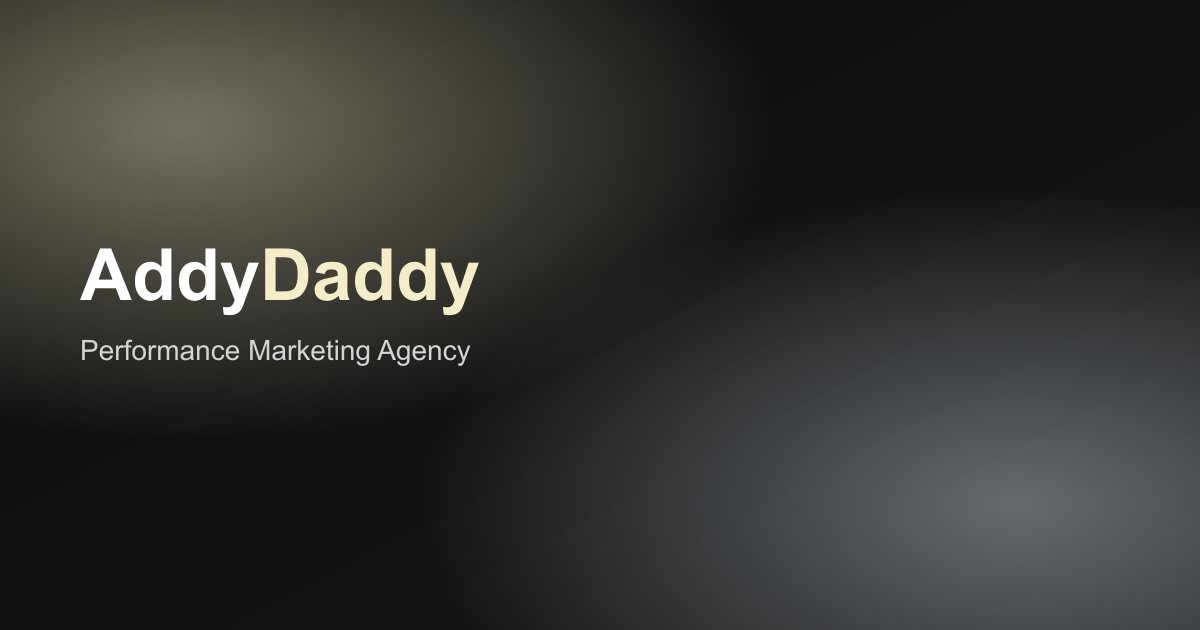
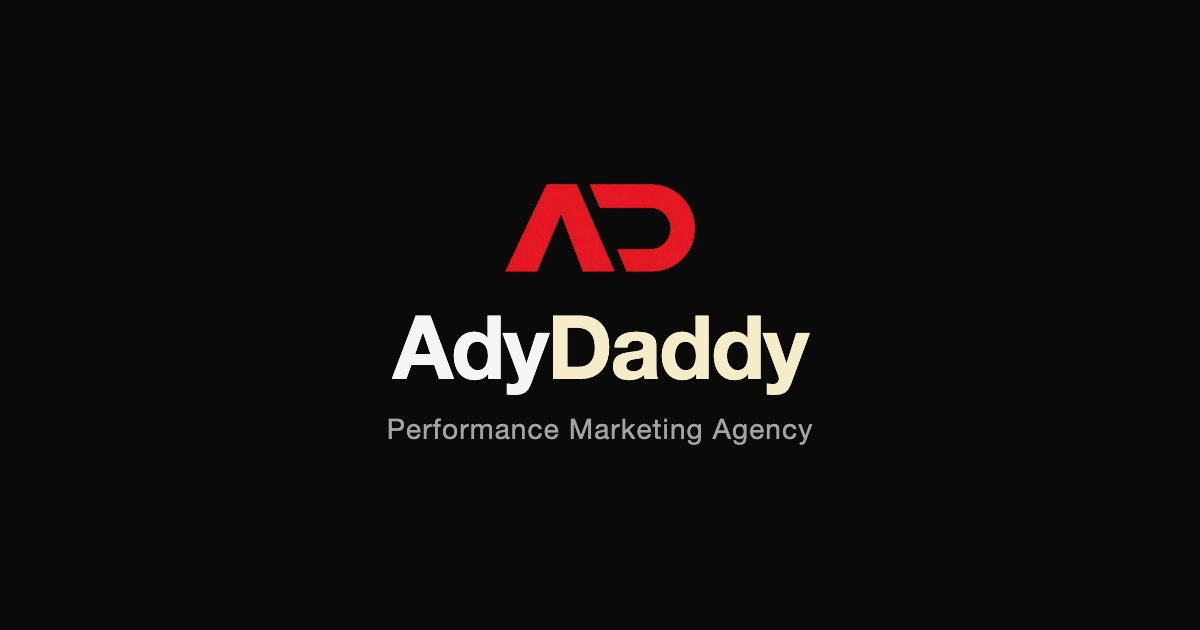
Complete site: business details, contact form -> Google Sheets, process section, OG image
- Fill BUSINESS_INFO: founder Vibhor Sharma, phone, email, Instagram, domain adydaddy.com
- Make address optional (hidden in UI/schema until registered)
- Wire contact form to /api/contact -> Google Sheets web hook (Apps Script included)
- Add 'How we work' process section + two FAQ entries
- Generate on-brand OG image
- Update README setup docs

diff --git a/src/components/ContactForm.tsx b/src/components/ContactForm.tsx
@@ -3,18 +3,40 @@
 import { useState, type FormEvent } from "react";
 import Link from "next/link";
 
+type Status = "idle" | "loading" | "submitted" | "error";
+
 /**
- * Placeholder client-side form. Wire `handleSubmit` up to a real API route,
- * email service, or CRM webhook before launch; this only manages local UI
- * state.
+ * Client-side contact form. Submits to /api/contact, which forwards the
+ * payload to a Google Sheet web hook. Nothing is sent anywhere from the
+ * client other than this site's own API route.
  */
 export default function ContactForm() {
-  const [status, setStatus] = useState<"idle" | "submitted">("idle");
+  const [status, setStatus] = useState<Status>("idle");
+  const [error, setError] = useState("");
 
-  function handleSubmit(event: FormEvent<HTMLFormElement>) {
+  async function handleSubmit(event: FormEvent<HTMLFormElement>) {
     event.preventDefault();
-    // TODO: POST to a real API route / CRM webhook.
-    setStatus("submitted");
+    setStatus("loading");
+    setError("");
+
+    const form = event.currentTarget;
+    const data = Object.fromEntries(new FormData(form).entries());
+
+    try {
+      const response = await fetch("/api/contact", {
+        method: "POST",
+        headers: { "Content-Type": "application/json" },
+        body: JSON.stringify(data),
+      });
+      const result = (await response.json()) as { error?: string };
+      if (!response.ok) {
+        throw new Error(result.error || "Something went wrong.");
+      }
+      setStatus("submitted");
+    } catch (err) {
+      setError(err instanceof Error ? err.message : "Something went wrong.");
+      setStatus("error");
+    }
   }
 
   if (status === "submitted") {
@@ -23,7 +45,11 @@ export default function ContactForm() {
         <h2 className="text-[18px]">Thanks! We&apos;ll be in touch.</h2>
         <p className="mt-2 text-body">
           We usually reply within one business day. In the meantime, feel
-          free to browse our <Link href="/portfolio" className="font-bold text-heading underline underline-offset-2">recent work</Link>.
+          free to browse our{" "}
+          <Link href="/portfolio" className="font-bold text-heading underline underline-offset-2">
+            recent work
+          </Link>
+          .
         </p>
       </div>
     );
@@ -51,11 +77,19 @@ export default function ContactForm() {
           className="mt-2 w-full rounded-xl border border-heading/15 bg-transparent px-4 py-3 text-body outline-none transition-colors duration-300 focus:border-heading"
         />
       </div>
+
+      {status === "error" && (
+        <p className="rounded-xl bg-pastel-blush/50 px-4 py-3 text-[14px] text-heading">
+          {error}
+        </p>
+      )}
+
       <button
         type="submit"
-        className="mt-2 inline-flex items-center justify-center self-start rounded-full bg-heading px-6 py-3 text-[14px] font-bold text-background transition-transform duration-300 hover:scale-[1.03]"
+        disabled={status === "loading"}
+        className="mt-2 inline-flex items-center justify-center self-start rounded-full bg-heading px-6 py-3 text-[14px] font-bold text-background transition-transform duration-300 hover:scale-[1.03] disabled:cursor-not-allowed disabled:opacity-60"
       >
-        Send message
+        {status === "loading" ? "Sending…" : "Send message"}
       </button>
     </form>
   );

diff --git a/src/app/api/contact/route.ts b/src/app/api/contact/route.ts
@@ -1,0 +1,83 @@
+import { NextResponse } from "next/server";
+
+type ContactPayload = {
+  name?: string;
+  company?: string;
+  email?: string;
+  budget?: string;
+  message?: string;
+};
+
+/**
+ * Contact form endpoint. Validates the payload, then forwards it to a
+ * Google Sheets Apps Script web hook (see scripts/google-sheet-webhook.gs).
+ * The web hook URL is read at request time from GOOGLE_SHEET_WEBHOOK_URL so
+ * the build never depends on it being present.
+ */
+export async function POST(request: Request) {
+  let body: ContactPayload;
+  try {
+    body = (await request.json()) as ContactPayload;
+  } catch {
+    return NextResponse.json({ error: "Invalid request body." }, { status: 400 });
+  }
+
+  const name = (body.name ?? "").trim();
+  const email = (body.email ?? "").trim();
+  const message = (body.message ?? "").trim();
+  const company = (body.company ?? "").trim();
+  const budget = (body.budget ?? "").trim();
+
+  if (!name || !email || !message) {
+    return NextResponse.json(
+      { error: "Please fill in your name, email, and message." },
+      { status: 400 }
+    );
+  }
+
+  if (!/^[^\s@]+@[^\s@]+\.[^\s@]+$/.test(email)) {
+    return NextResponse.json(
+      { error: "Please enter a valid email address." },
+      { status: 400 }
+    );
+  }
+
+  const webhookUrl = process.env.GOOGLE_SHEET_WEBHOOK_URL;
+
+  if (!webhookUrl) {
+    console.error(
+      "Contact submission received but GOOGLE_SHEET_WEBHOOK_URL is not set."
+    );
+    return NextResponse.json(
+      { error: "This form isn't fully set up yet. Please email us directly." },
+      { status: 503 }
+    );
+  }
+
+  try {
+    const res = await fetch(webhookUrl, {
+      method: "POST",
+      headers: { "Content-Type": "application/json" },
+      body: JSON.stringify({
+        name,
+        company,
+        email,
+        budget,
+        message,
+        submittedAt: new Date().toISOString(),
+      }),
+    });
+
+    if (!res.ok) {
+      throw new Error(`Sheet webhook responded ${res.status}`);
+    }
+
+    return NextResponse.json({ ok: true });
+  } catch (error) {
+    console.error("Failed to forward contact form submission:", error);
+    return NextResponse.json(
+      { error: "Something went wrong sending your message. Please email us directly." },
+      { status: 500 }
+    );
+  }
+}

diff --git a/src/lib/seo.ts b/src/lib/seo.ts
@@ -9,34 +9,35 @@ import type { Metadata } from "next";
  * truth so every page is correct by construction.
  */
 
-// TODO: replace with the real production domain before launch.
-export const SITE_URL = "https://www.addydaddy.in";
+export const SITE_URL = "https://adydaddy.com";
 
 export const SITE_NAME = "AdyDaddy";
 
 export const SITE_DESCRIPTION =
   "AdyDaddy is a performance marketing agency that plans, builds, and scales paid media, SEO, and content programs that turn ad spend into revenue.";
 
-// TODO: replace with real business details before launch.
 export const BUSINESS_INFO = {
-  legalName: "AdyDaddy Marketing Pvt. Ltd.",
+  legalName: "AdyDaddy",
   logo: `${SITE_URL}/logo-mark.png`,
   foundingDate: "2020",
-  founders: [{ name: "[Founder Name]" }],
+  founders: [{ name: "Vibhor Sharma" }],
+  // Address is optional: leave streetAddress empty to hide the office
+  // detail on the contact page and omit it from structured data until a
+  // physical location is registered.
   address: {
-    streetAddress: "[Street Address]",
-    addressLocality: "[City]",
-    addressRegion: "[State]",
-    postalCode: "[Postal Code]",
+    streetAddress: "",
+    addressLocality: "",
+    addressRegion: "",
+    postalCode: "",
     addressCountry: "IN",
   },
   contactPoint: {
-    telephone: "[+91-00000-00000]",
+    telephone: "+919760436442",
     contactType: "customer service",
-    email: "hello@addydaddy.in",
+    email: "adydaddy81@gmail.com",
   },
   sameAs: [
-    "https://www.instagram.com/addydaddy",
+    "https://www.instagram.com/adydaddyofficial",
     "https://www.linkedin.com/company/addydaddy",
     "https://twitter.com/addydaddy",
     "https://www.facebook.com/addydaddy",
@@ -109,10 +110,14 @@ export function buildOrganizationSchema() {
     logo: BUSINESS_INFO.logo,
     foundingDate: BUSINESS_INFO.foundingDate,
     founders: BUSINESS_INFO.founders,
-    address: {
-      "@type": "PostalAddress",
-      ...BUSINESS_INFO.address,
-    },
+    ...(BUSINESS_INFO.address.streetAddress
+      ? {
+          address: {
+            "@type": "PostalAddress",
+            ...BUSINESS_INFO.address,
+          },
+        }
+      : {}),
     contactPoint: {
       "@type": "ContactPoint",
       ...BUSINESS_INFO.contactPoint,

diff --git a/src/components/Process.tsx b/src/components/Process.tsx
@@ -1,0 +1,58 @@
+import Container from "@/components/Container";
+import RevealOnScroll from "@/components/RevealOnScroll";
+import { getPastelBg } from "@/lib/pastels";
+
+const STEPS = [
+  {
+    title: "Audit the numbers",
+    body: "We start from your funnel and account data to find where revenue is leaking — before proposing a single channel.",
+  },
+  {
+    title: "Plan for payback",
+    body: "Every campaign is scoped against a payback target, with creative and tracking set up to measure it honestly.",
+  },
+  {
+    title: "Launch & test",
+    body: "We ship fast and run a structured testing pipeline so winners and losers are decided by data, not opinion.",
+  },
+  {
+    title: "Scale what works",
+    body: "Budget flows to what's compounding; we cut what isn't and keep reporting pointed at profit, not vanity metrics.",
+  },
+];
+
+/**
+ * "How we work" — a four-step engagement process. Same visual language as
+ * the services grid (pastel number badges + reveal on scroll).
+ */
+export default function Process() {
+  return (
+    <section className="border-y border-heading/10 py-20 md:py-28">
+      <Container>
+        <RevealOnScroll variant="up">
+          <h2>How we work</h2>
+        </RevealOnScroll>
+        <RevealOnScroll variant="up" delay={100}>
+          <p className="mt-4 max-w-xl text-body">
+            Four steps, no black boxes — from first audit to scaling what
+            pays for itself.
+          </p>
+        </RevealOnScroll>
+
+        <div className="mt-12 grid grid-cols-1 gap-8 sm:grid-cols-2 lg:grid-cols-4">
+          {STEPS.map((step, index) => (
+            <RevealOnScroll key={step.title} variant="up" delay={index * 80}>
+              <span
+                className={`flex h-11 w-11 items-center justify-center rounded-full text-[14px] font-bold text-heading ${getPastelBg(index)}`}
+              >
+                {String(index + 1).padStart(2, "0")}
+              </span>
+              <h3 className="mt-4 text-[16px]">{step.title}</h3>
+              <p className="mt-2 text-body">{step.body}</p>
+            </RevealOnScroll>
+          ))}
+        </div>
+      </Container>
+    </section>
+  );
+}

diff --git a/src/app/contact/page.tsx b/src/app/contact/page.tsx
@@ -21,6 +21,7 @@ const breadcrumbItems = [
 
 export default function ContactPage() {
   const address = BUSINESS_INFO.address;
+  const hasAddress = Boolean(address.streetAddress);
 
   return (
     <section className="py-16 md:py-24">
@@ -46,10 +47,12 @@ export default function ContactPage() {
             <ContactDetail icon={Phone} label="Phone" index={1}>
               {BUSINESS_INFO.contactPoint.telephone}
             </ContactDetail>
-            <ContactDetail icon={MapPin} label="Office" index={2}>
-              {address.streetAddress}, {address.addressLocality},{" "}
-              {address.addressRegion} {address.postalCode}
-            </ContactDetail>
+            {hasAddress && (
+              <ContactDetail icon={MapPin} label="Office" index={2}>
+                {address.streetAddress}, {address.addressLocality},{" "}
+                {address.addressRegion} {address.postalCode}
+              </ContactDetail>
+            )}
           </RevealOnScroll>
 
           <RevealOnScroll variant="right" delay={100}>

diff --git a/src/data/faqs.ts b/src/data/faqs.ts
@@ -21,4 +21,14 @@ export const generalFaqs: Faq[] = [
     answer:
       "Yes, we regularly work as an extension of in-house teams, either owning specific channels or acting as a strategic layer on top of execution you already have.",
   },
+  {
+    question: "What does working with you cost?",
+    answer:
+      "We work on a monthly retainer plus a performance component tied to results, sized to your growth stage and scope. After a short discovery call we'll quote you a clear number, not a ballpark.",
+  },
+  {
+    question: "How quickly can we get started?",
+    answer:
+      "Most engagements kick off within one to two weeks once we've aligned on scope and you've granted account access. We move faster for brands with a clear bottleneck already identified.",
+  },
 ];

diff --git a/src/app/page.tsx b/src/app/page.tsx
@@ -10,6 +10,7 @@ import FaqAccordion from "@/components/FaqAccordion";
 import JsonLd from "@/components/JsonLd";
 import TechStack from "@/components/TechStack";
 import TrustedPartners from "@/components/TrustedPartners";
+import Process from "@/components/Process";
 import { buildMetadata, buildFaqSchema, SITE_DESCRIPTION } from "@/lib/seo";
 import { services } from "@/data/services";
 import { portfolioItems } from "@/data/portfolio";
@@ -155,6 +156,9 @@ export default function HomePage() {
           </div>
         </Container>
       </section>
+
+      {/* Process */}
+      <Process />
 
       {/* Tech stack */}
       <TechStack />

diff --git a/README.md b/README.md
@@ -34,6 +34,24 @@ The header (`src/components/Header.tsx`) is transparent (white-tinted glass) ove
 
 `src/data/clients.ts` lists the client logos shown in the homepage marquee (`public/images/logos/`). Add new entries there as more logos come in.
 
+## Contact form → Google Sheet
+
+The contact form (`src/components/ContactForm.tsx`) POSTs to `/api/contact`
+(`src/app/api/contact/route.ts`), which validates the payload and forwards it
+to a Google Sheets Apps Script web hook.
+
+To enable it:
+
+1. Create a Google Sheet, then paste `scripts/google-sheet-webhook.gs` into
+   Extensions → Apps Script and deploy as a Web app (Execute as: Me, access:
+   Anyone).
+2. Copy the Web app URL (ends in `/exec`).
+3. Set it as the `GOOGLE_SHEET_WEBHOOK_URL` environment variable in AWS
+   Amplify (Hosting → Environment variables), then redeploy.
+
+Until that variable is set, the form returns a friendly "not fully set up"
+message instead of silently dropping submissions.
+
 ## SEO architecture
 
 - `src/lib/seo.ts`: `buildMetadata()`, plus JSON-LD builders: `buildOrganizationSchema`, `buildServiceSchema`, `buildServiceReviewSchema`, `buildFaqSchema`, `buildBreadcrumbSchema`.
@@ -44,8 +62,8 @@ The header (`src/components/Header.tsx`) is transparent (white-tinted glass) ove
 
 Everything below is realistic scaffolding, not real business data. Grep for `TODO` and `placeholder` to find it all, starting with:
 
-- **`src/lib/seo.ts`**: `SITE_URL` (currently `https://www.addydaddy.in`), and `BUSINESS_INFO` (legal name, founders, address, phone, social links).
+- **`src/lib/seo.ts`**: `SITE_URL` is set to `https://adydaddy.com`; `BUSINESS_INFO` holds the founder, phone, email, and Instagram. Address and the remaining social handles are still placeholders to fill in later.
 - **`src/data/services.ts`** / **`src/data/portfolio.ts`**: sample services, case studies, client names, and testimonials. The shape (including `seoTitle`/`seoDescription`) is meant to stay as-is; just swap the content.
-- **`public/images/`, `public/og-image.jpg`**: generated placeholder graphics (see `scripts/gen-placeholder-images.mjs`). Replace with real photography/creative.
-- **`src/components/ContactForm.tsx`**: UI only; `handleSubmit` needs wiring to a real API route, email service, or CRM webhook.
+- **`public/images/`, `public/og-image.jpg`**: `og-image.jpg` is on-brand; service/portfolio imagery is still generated placeholder graphics (see `scripts/gen-placeholder-images.mjs`). Replace with real photography/creative.
+- **`src/components/ContactForm.tsx`**: wired to `/api/contact` → Google Sheet (see "Contact form → Google Sheet" above); only the web hook URL needs setting.
 - **`public/logo.svg`**: a placeholder monogram; swap for the real logo.
